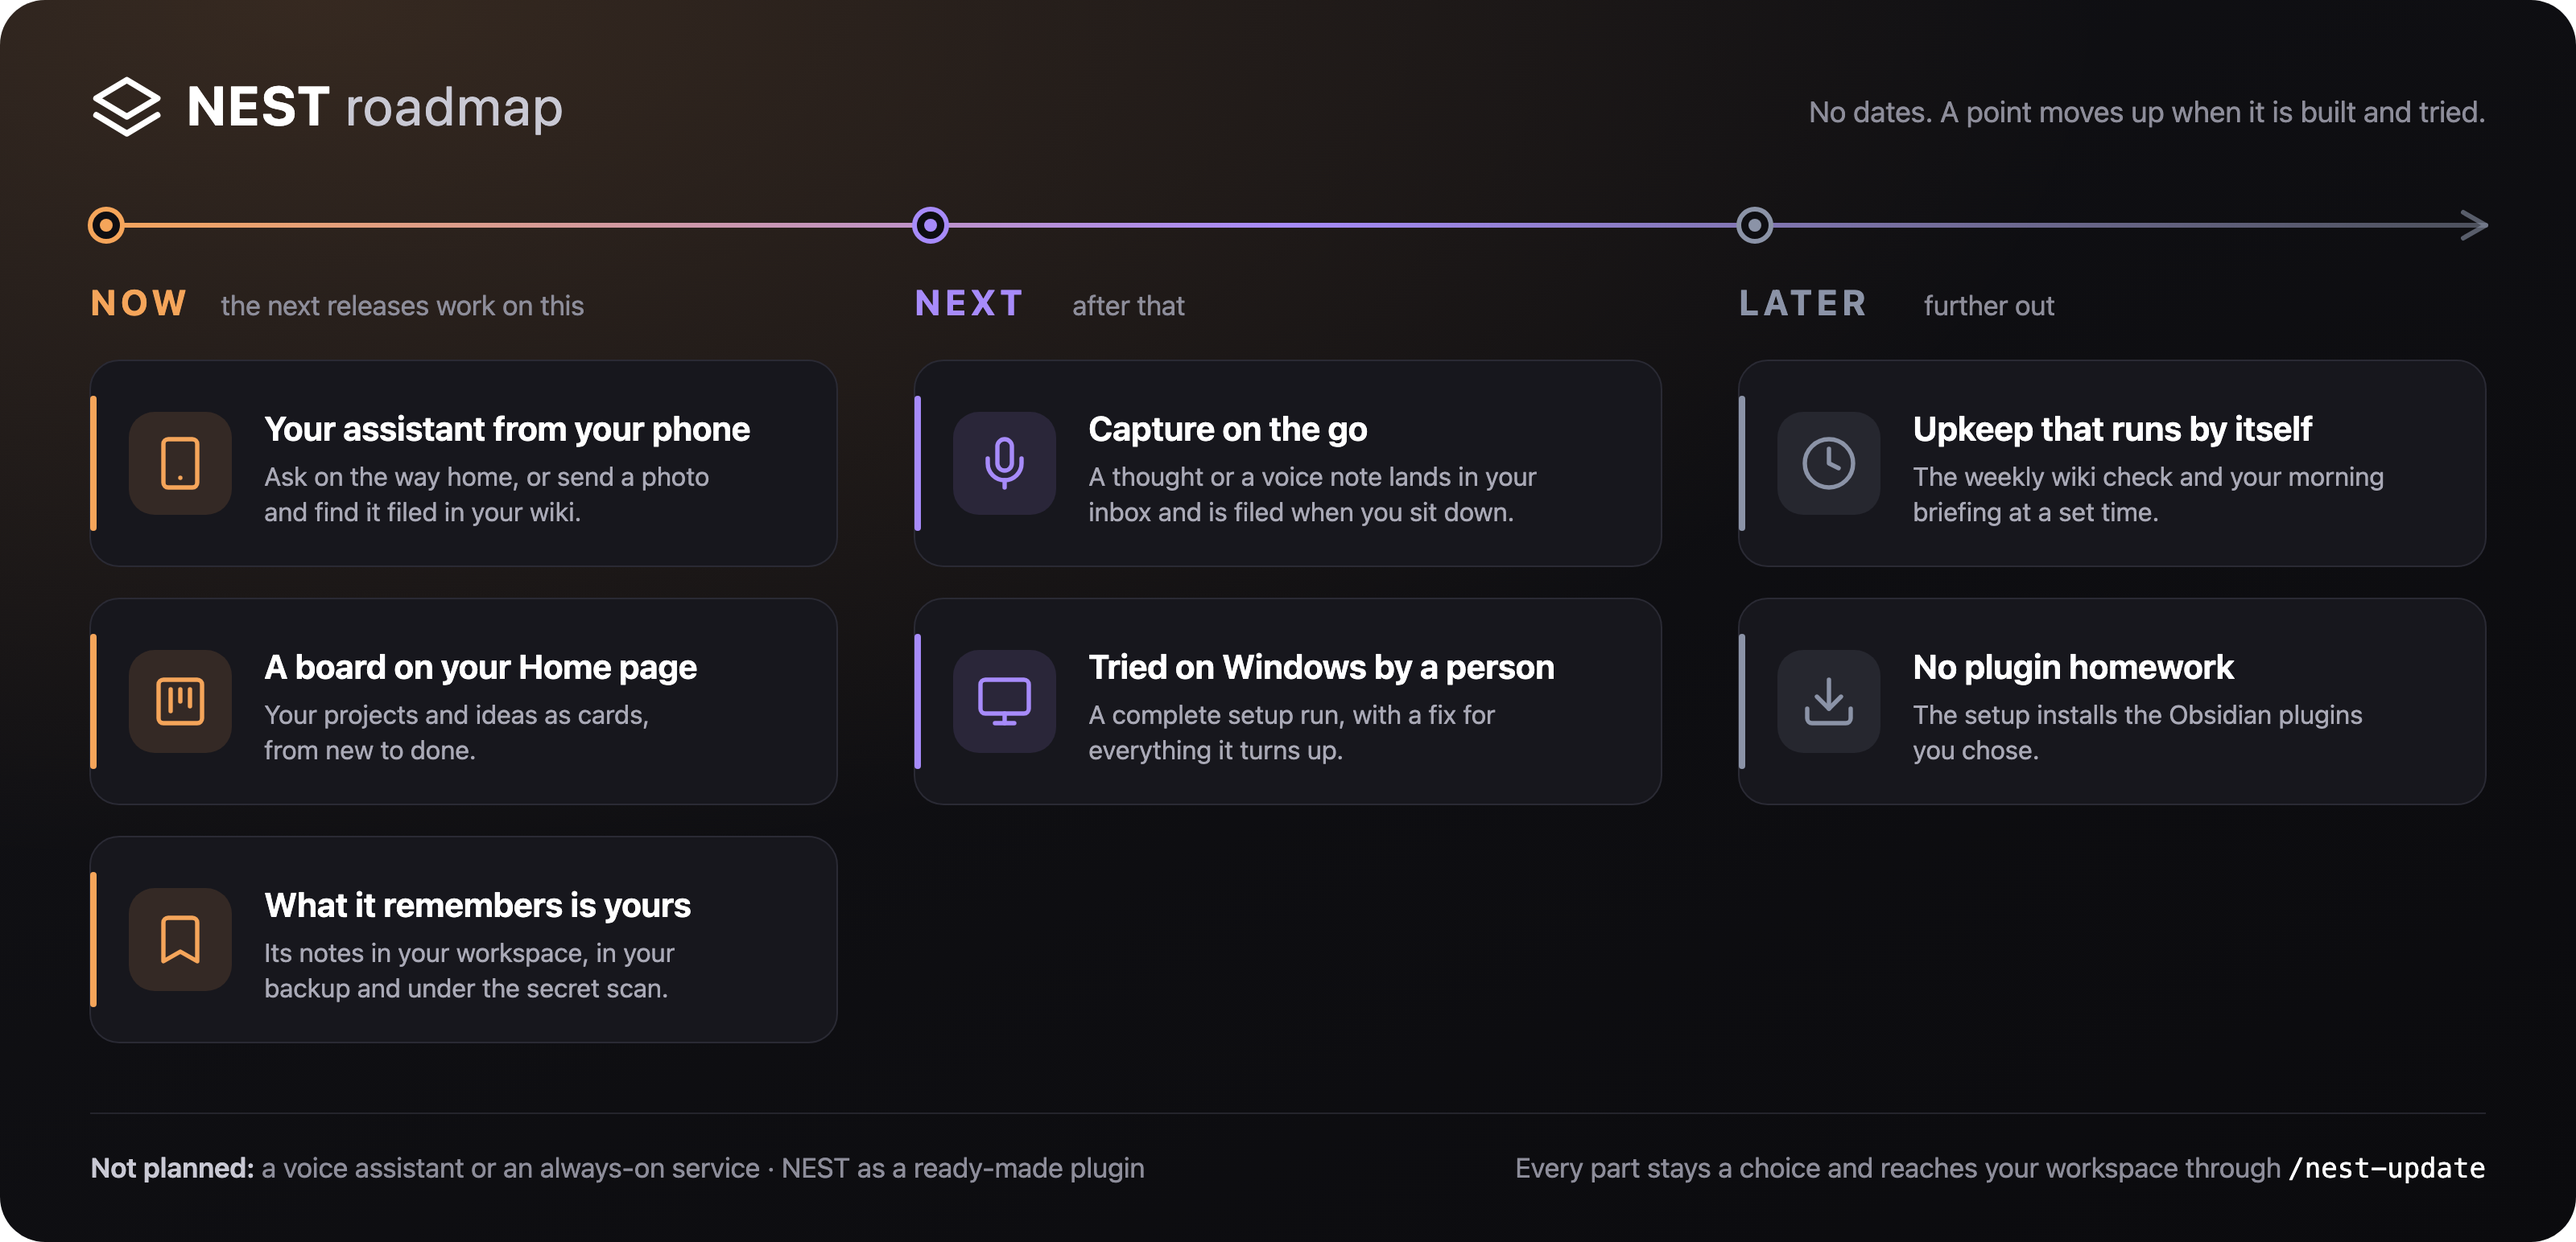
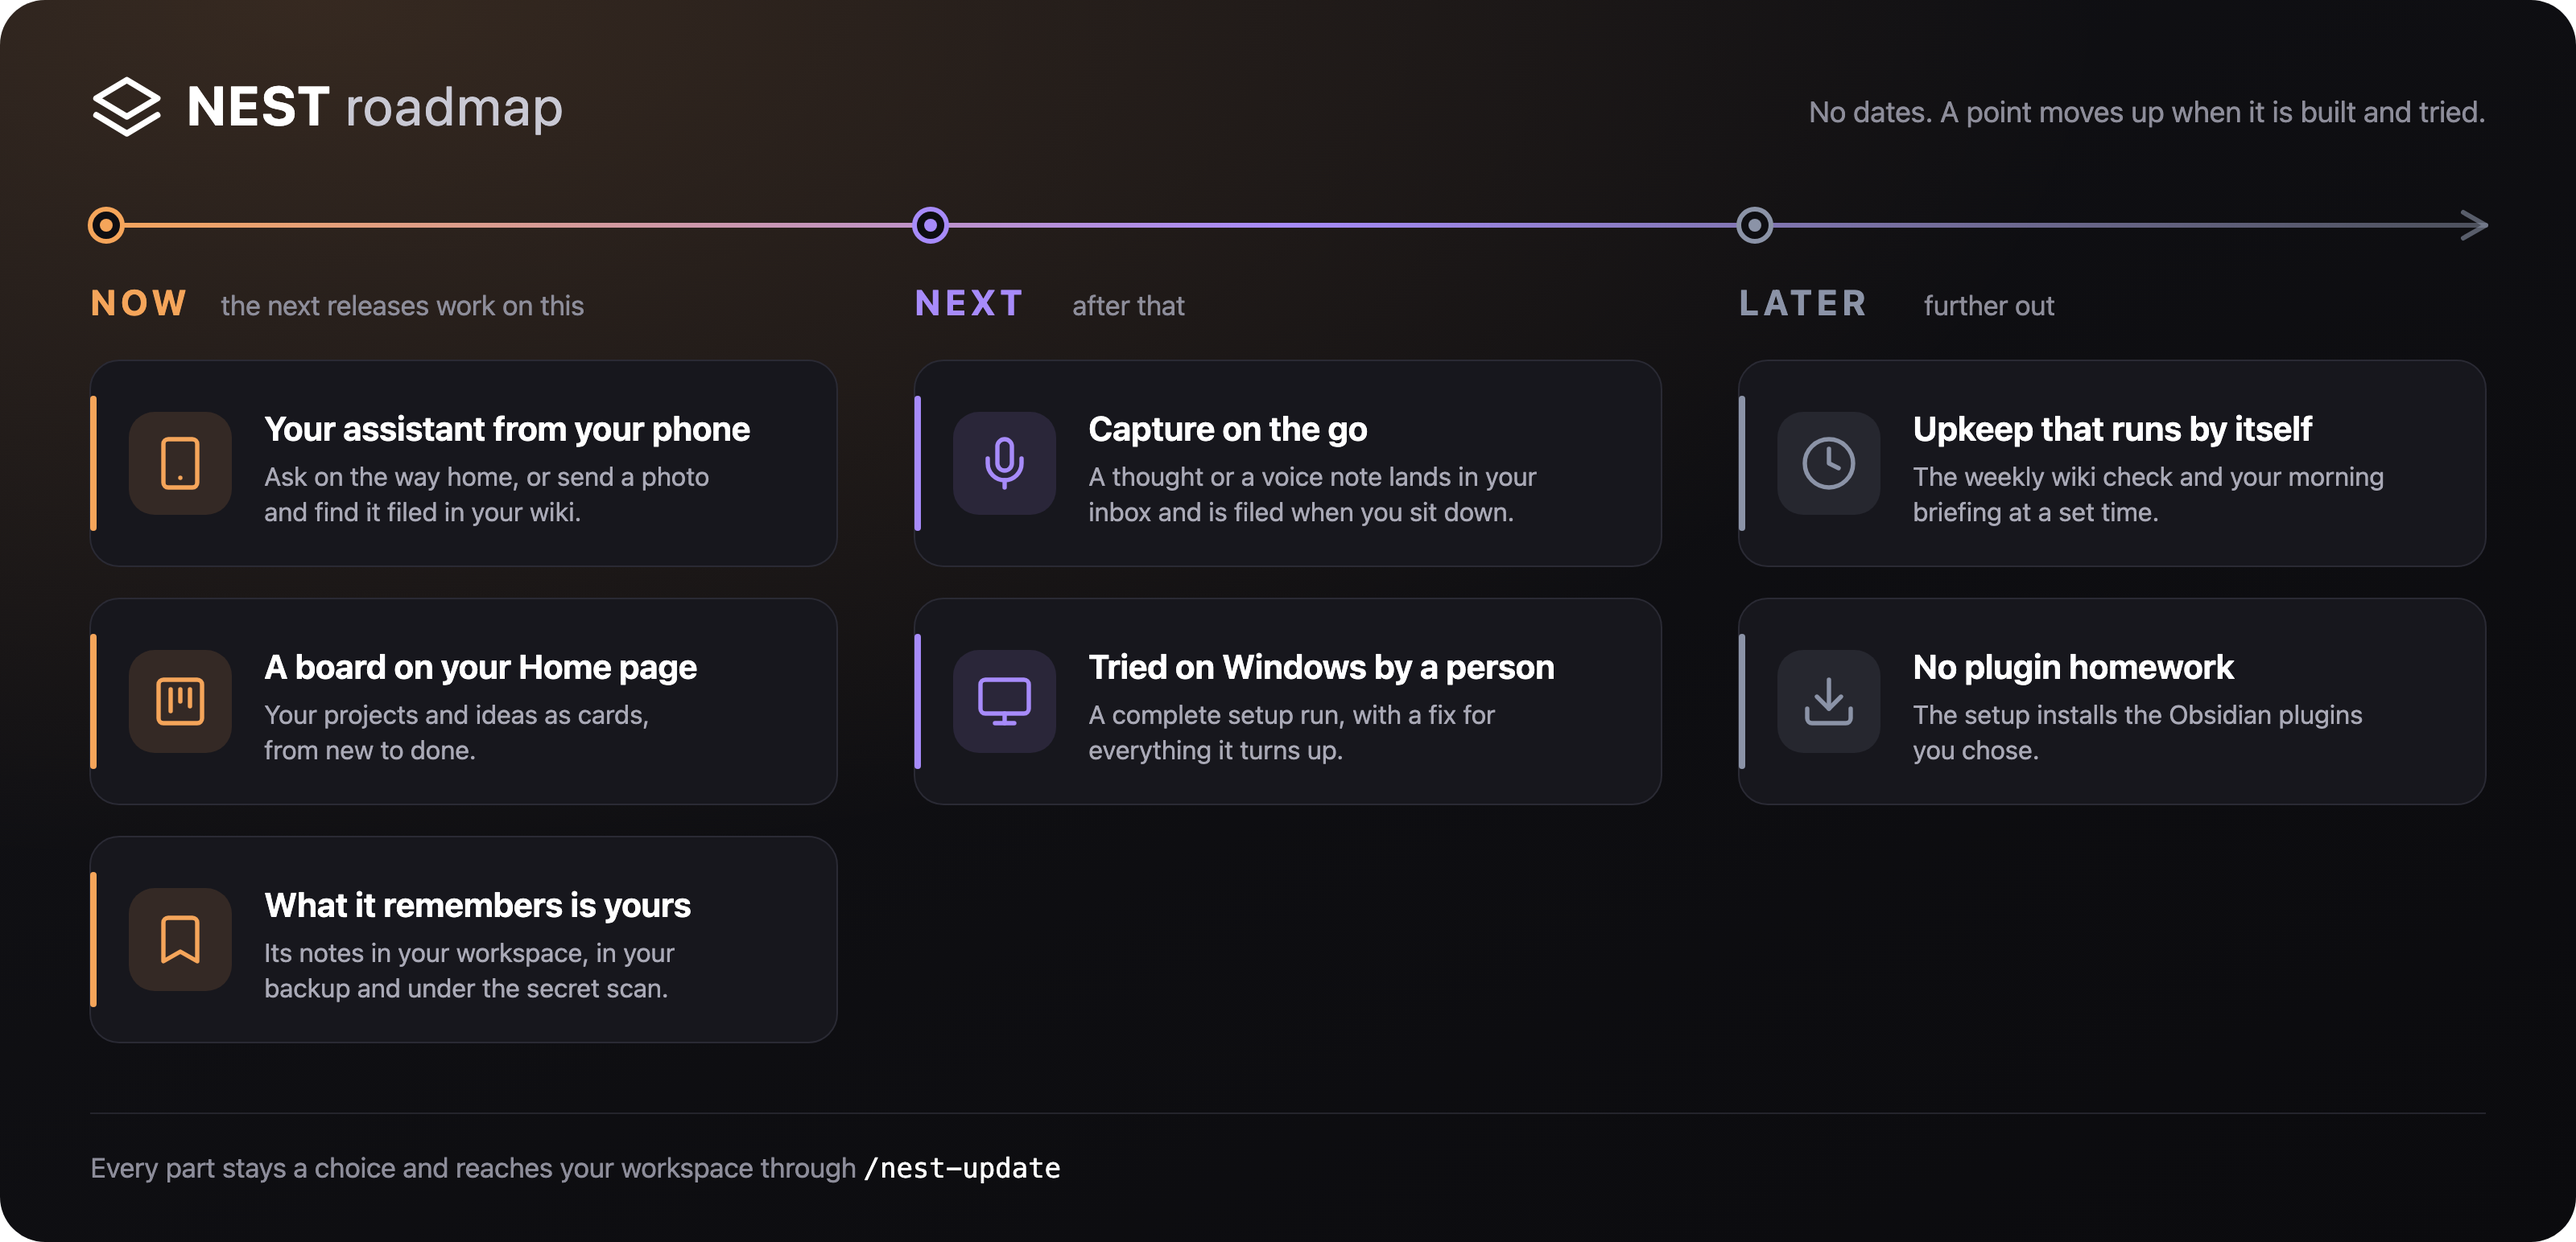
Docs: put the roadmap graphic under the introduction

Changed region(s): [[0.0312, 0.9326, 0.4375, 0.9637], [0.5938, 0.9326, 0.9688, 0.9637]]

diff --git a/ROADMAP.md b/ROADMAP.md
@@ -1,13 +1,13 @@
-<p align="center">
-  <img src="assets/roadmap.png" alt="NEST roadmap. Now: your assistant from your phone, a board on your Home page, what your assistant remembers is yours. Next: capture on the go, tried on Windows by a person. Later: upkeep that runs by itself, no plugin homework. Not planned: a voice assistant or an always-on service, NEST as a ready-made plugin." width="100%">
-</p>
-
 # Roadmap
 
 Where NEST is going, seen from your chair: what you will notice, not which file changes. No
 dates. A point moves up when it is built and tried, and into the [changelog](CHANGELOG.md) when
 it ships. Every new part stays a choice, and reaches a workspace you already have through
 `/nest-update`.
+
+<p align="center">
+  <img src="assets/roadmap.png" alt="NEST roadmap. Now: your assistant from your phone, a board on your Home page, what your assistant remembers is yours. Next: capture on the go, tried on Windows by a person. Later: upkeep that runs by itself, no plugin homework." width="100%">
+</p>
 
 ## 🟠 Now
 
